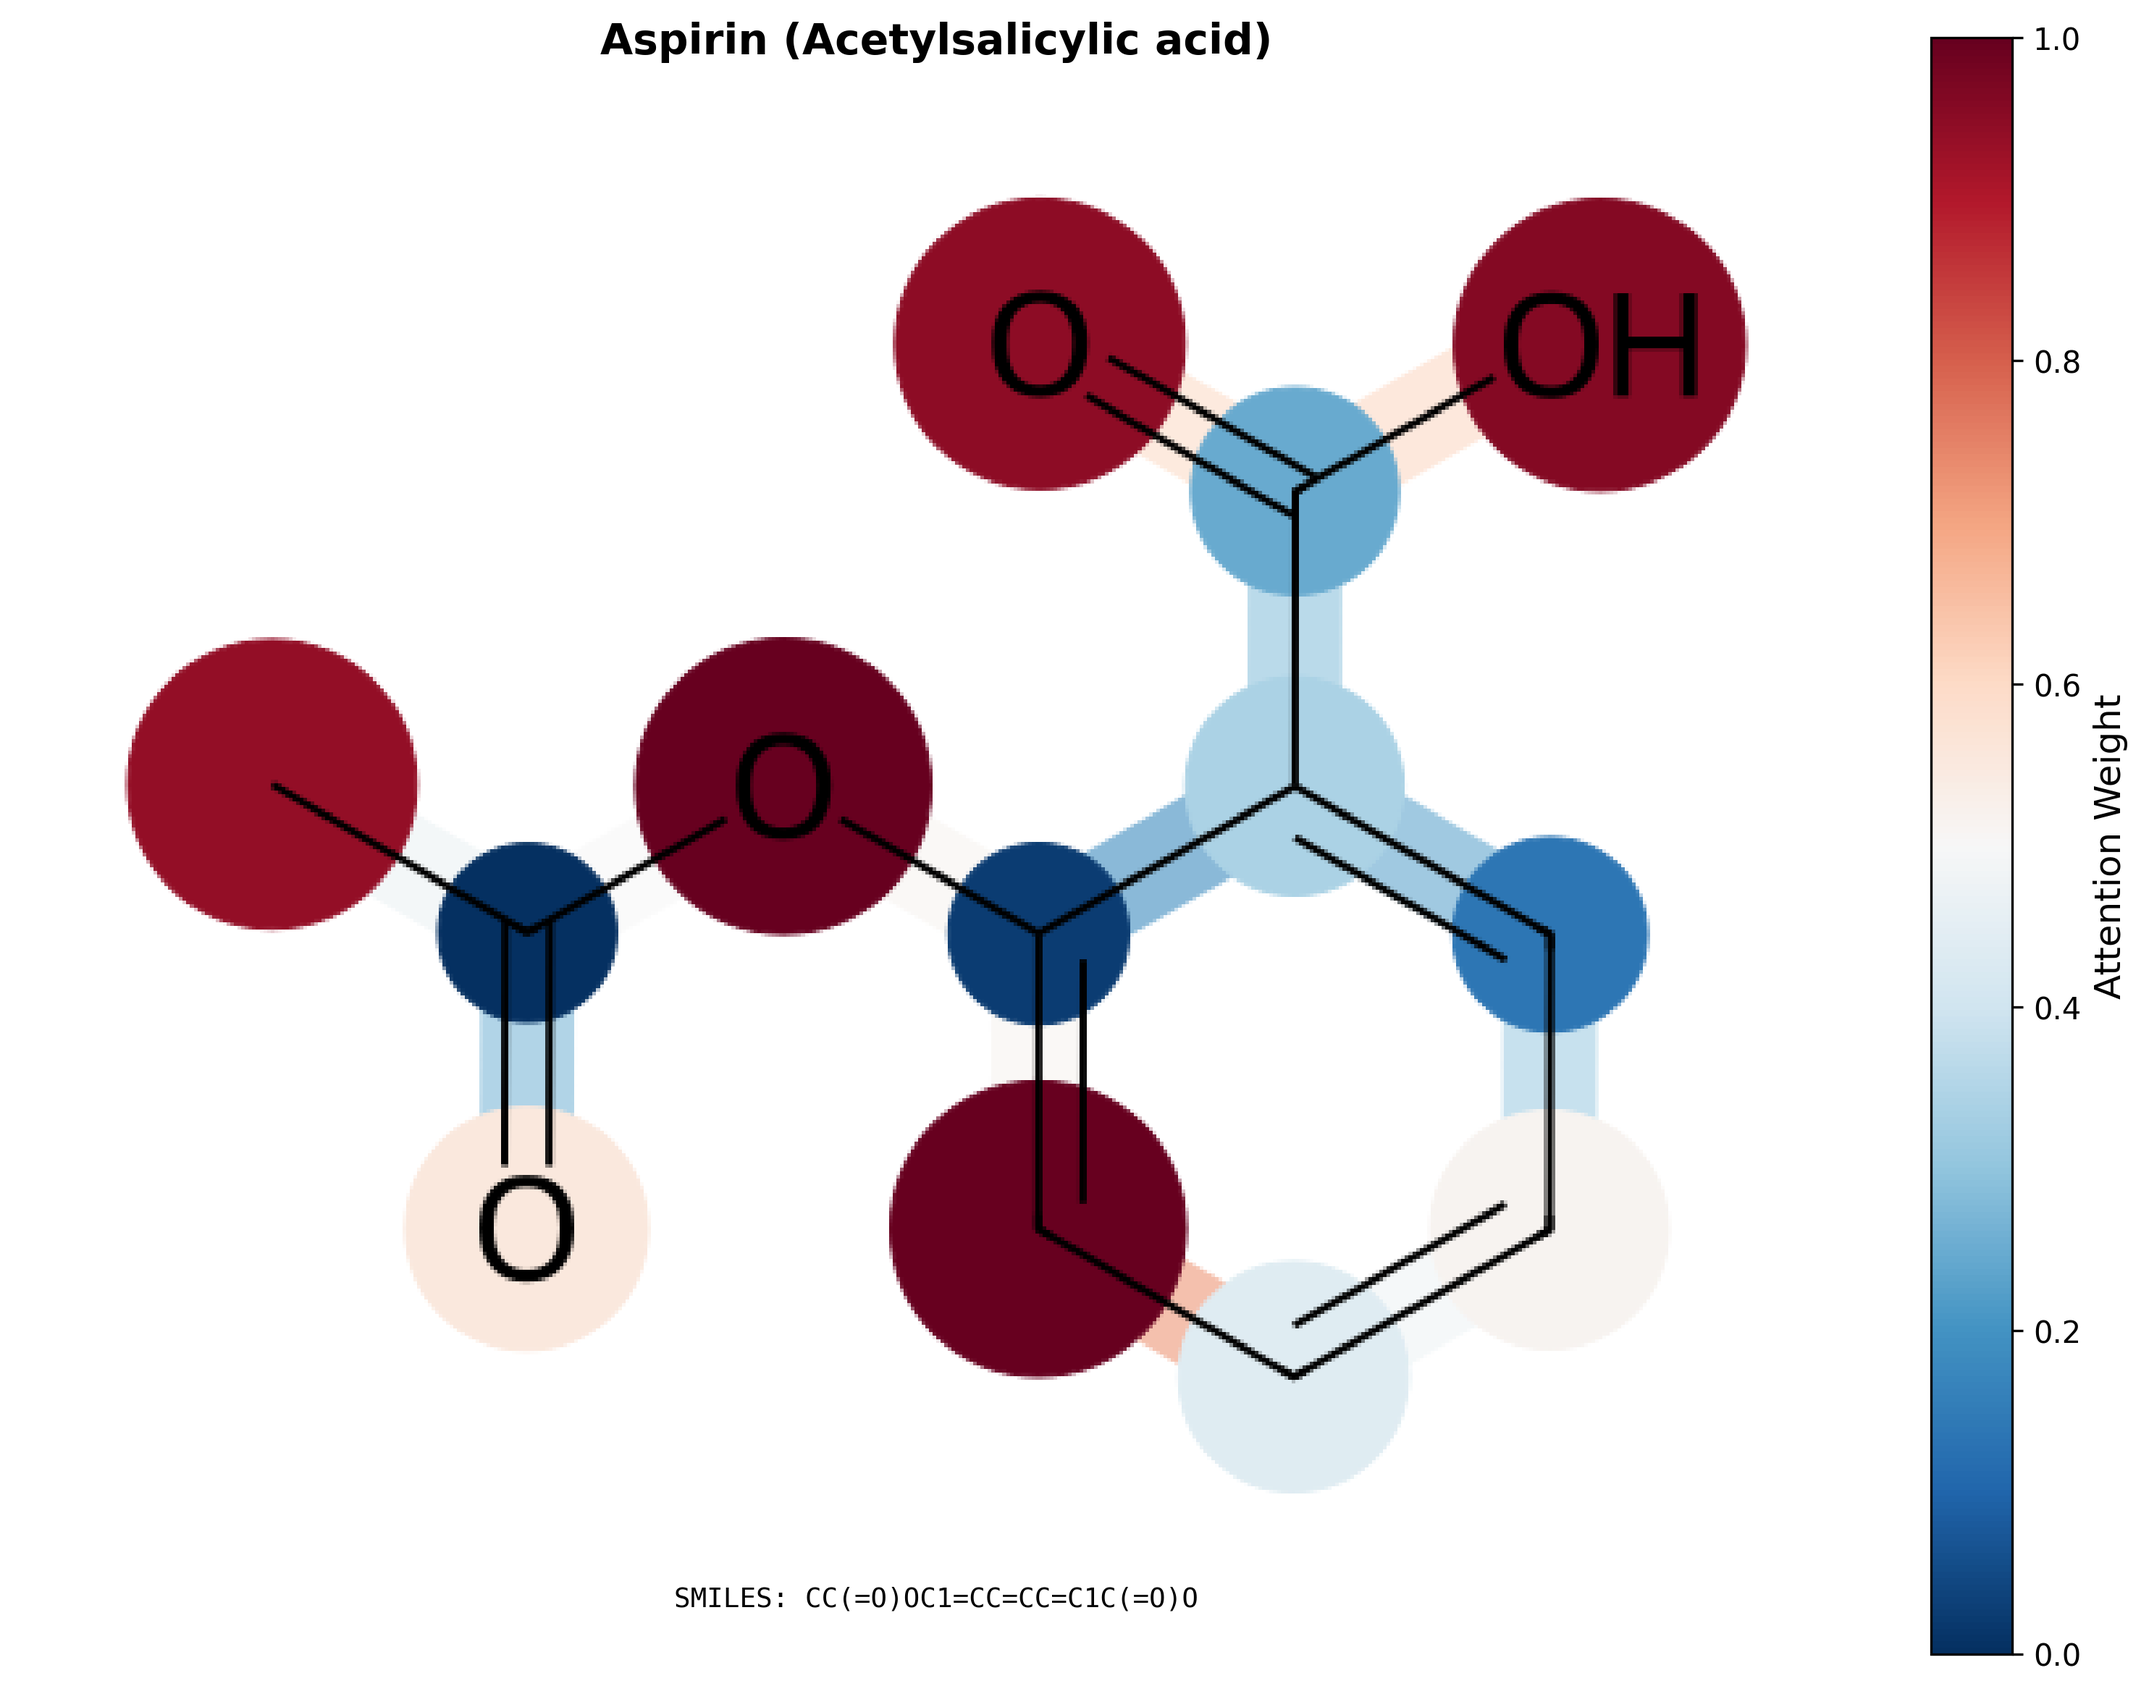
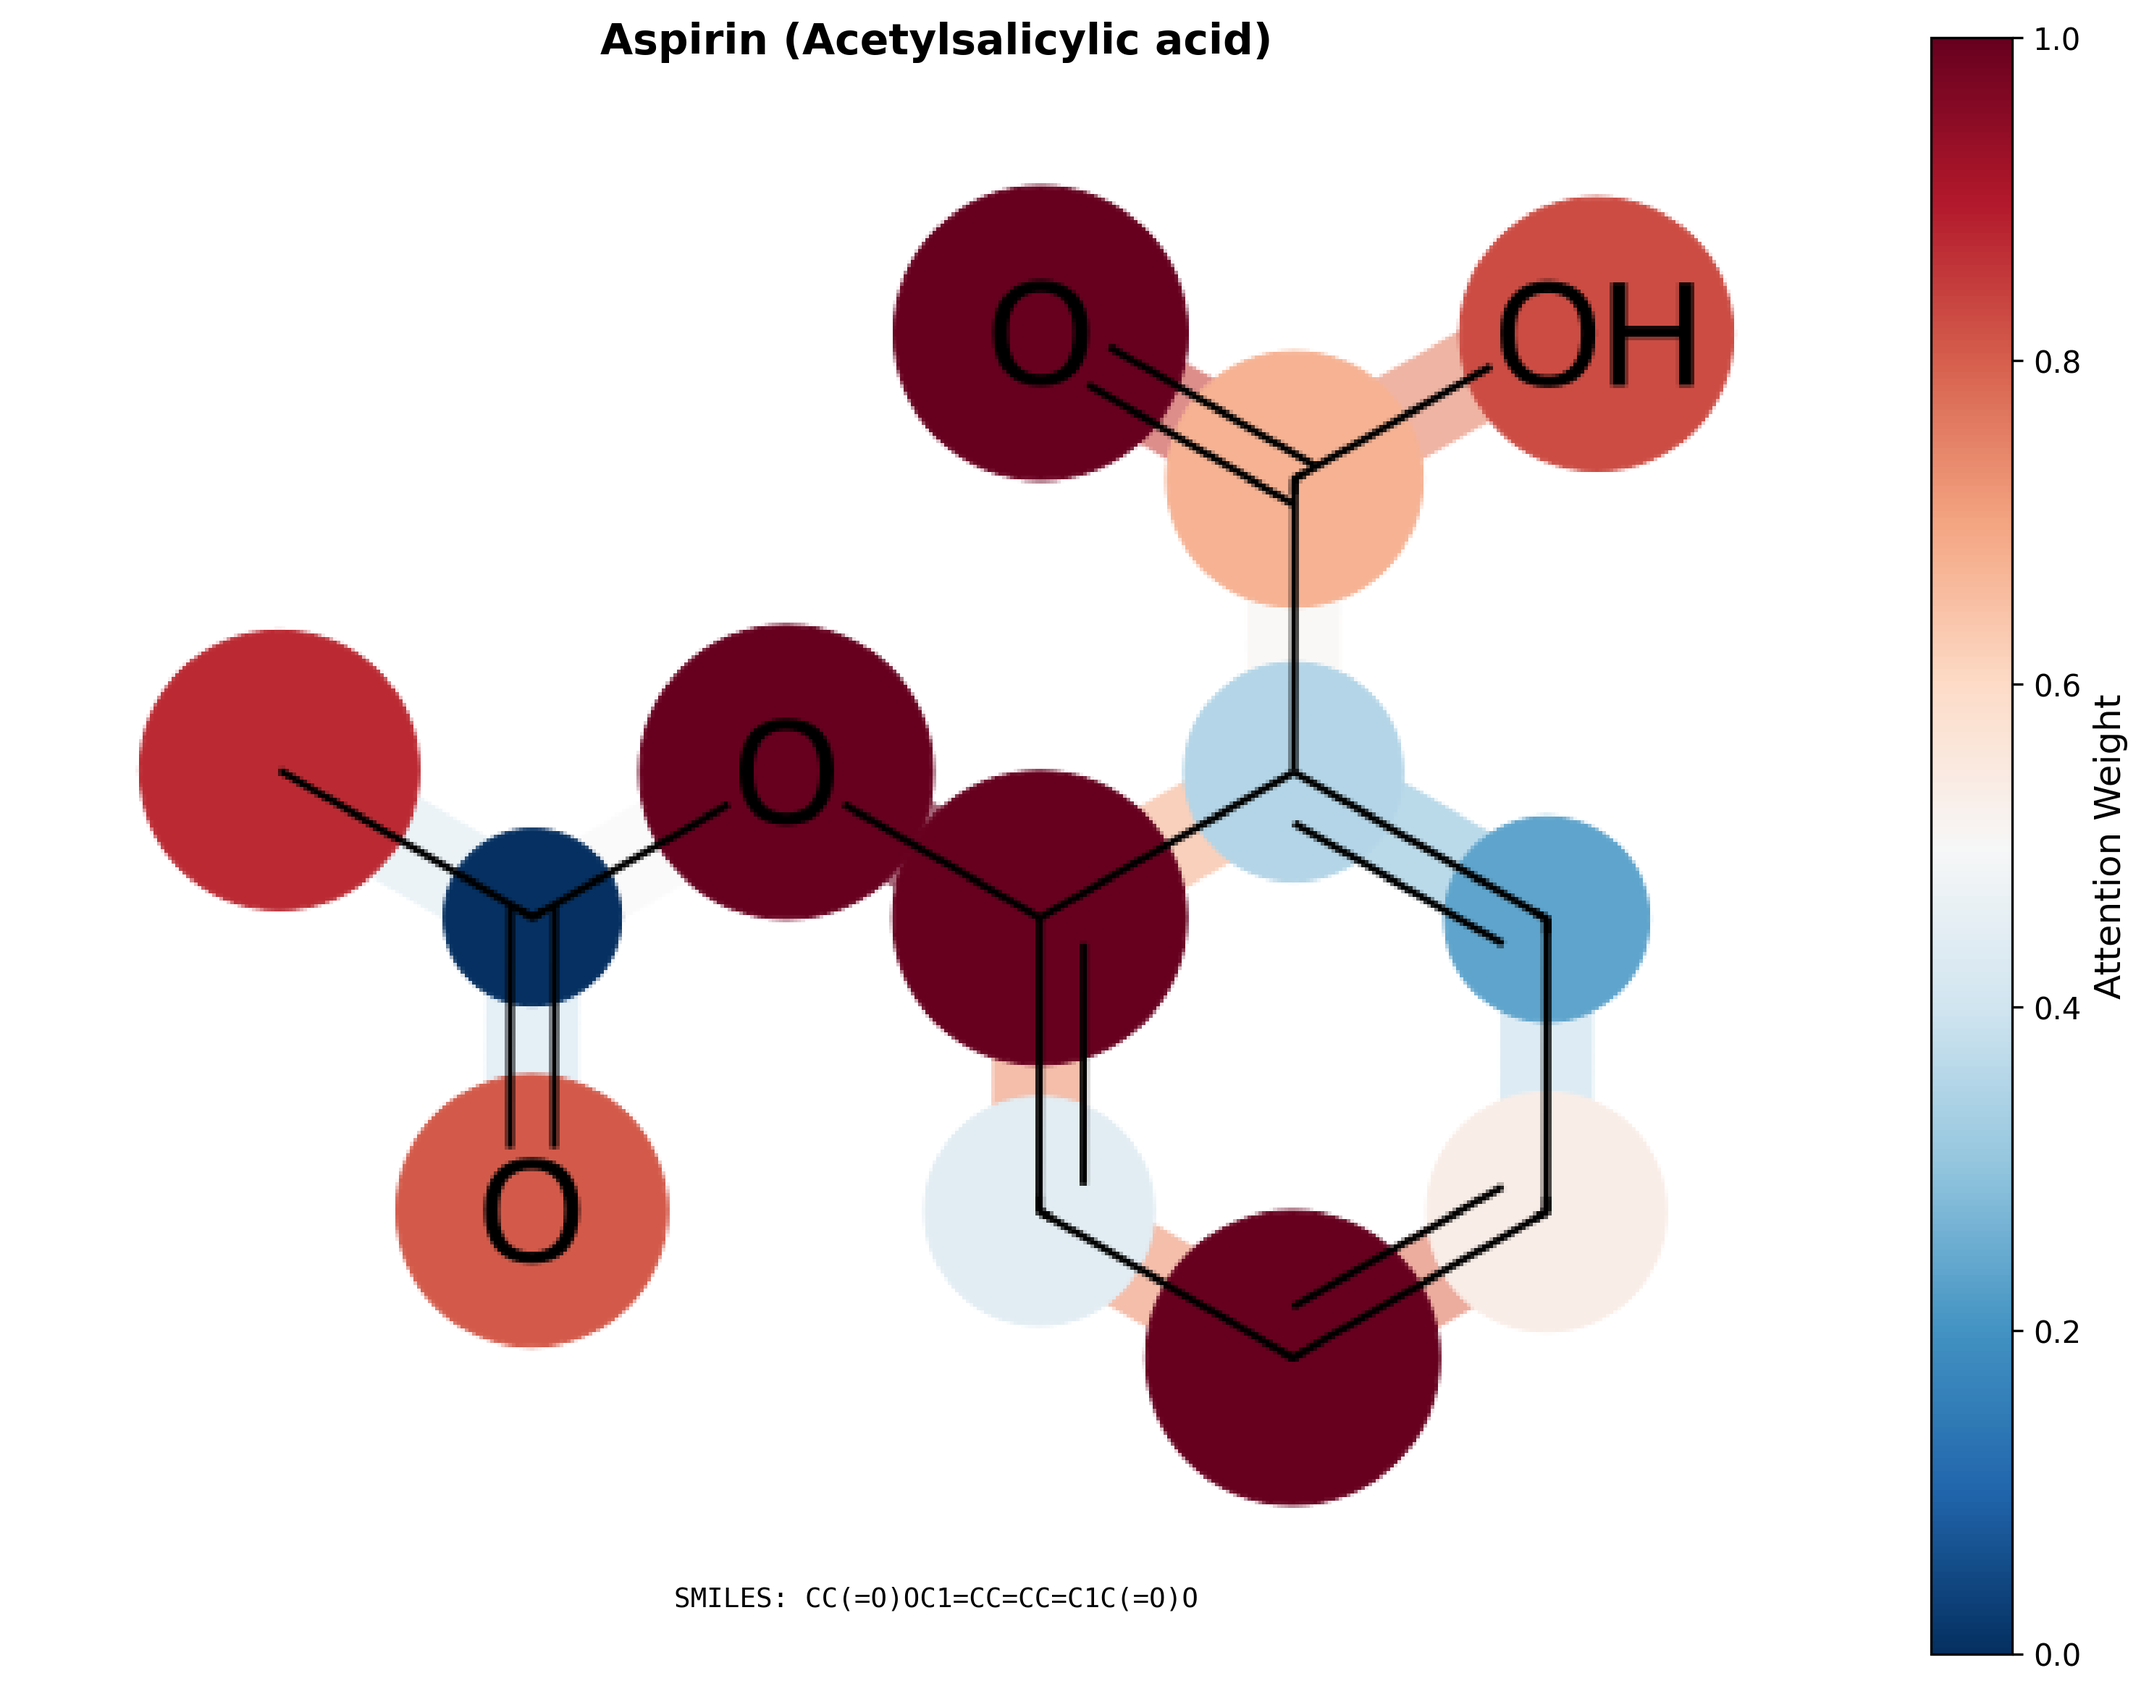
Address code review feedback: fix rdkit package name, hash issue, and temp file handling

Changed region(s): [[0.062, 0.0936, 0.8369, 0.9047]]

diff --git a/examples/visualize_attention_example.py b/examples/visualize_attention_example.py
@@ -32,23 +32,35 @@ import numpy as np
 project_root = os.path.dirname(os.path.dirname(os.path.abspath(__file__)))
 sys.path.insert(0, project_root)
 
-# 直接导入可视化模块（避免加载完整的 molgraph 包）
-import importlib.util
-viz_spec = importlib.util.spec_from_file_location(
-    'visualize_attention', 
-    os.path.join(project_root, 'molgraph', 'visualize_attention.py')
-)
-viz_module = importlib.util.module_from_spec(viz_spec)
-viz_spec.loader.exec_module(viz_module)
-
-# 从模块导入需要的函数
-visualize_molecule_attention = viz_module.visualize_molecule_attention
-visualize_multiple_molecules = viz_module.visualize_multiple_molecules
-save_attention_visualization = viz_module.save_attention_visualization
-quick_visualize = viz_module.quick_visualize
-generate_example_visualizations = viz_module.generate_example_visualizations
-normalize_attention_weights = viz_module.normalize_attention_weights
-create_atom_attention_mask = viz_module.create_atom_attention_mask
+# 尝试从 molgraph 包导入，如果失败则使用直接加载
+try:
+    from molgraph.visualize_attention import (
+        visualize_molecule_attention,
+        visualize_multiple_molecules,
+        save_attention_visualization,
+        quick_visualize,
+        generate_example_visualizations,
+        normalize_attention_weights,
+        create_atom_attention_mask
+    )
+except ImportError:
+    # 如果 molgraph 包有未安装的依赖，直接加载 visualize_attention 模块
+    import importlib.util
+    viz_spec = importlib.util.spec_from_file_location(
+        'visualize_attention', 
+        os.path.join(project_root, 'molgraph', 'visualize_attention.py')
+    )
+    viz_module = importlib.util.module_from_spec(viz_spec)
+    viz_spec.loader.exec_module(viz_module)
+    
+    # 从模块导入需要的函数
+    visualize_molecule_attention = viz_module.visualize_molecule_attention
+    visualize_multiple_molecules = viz_module.visualize_multiple_molecules
+    save_attention_visualization = viz_module.save_attention_visualization
+    quick_visualize = viz_module.quick_visualize
+    generate_example_visualizations = viz_module.generate_example_visualizations
+    normalize_attention_weights = viz_module.normalize_attention_weights
+    create_atom_attention_mask = viz_module.create_atom_attention_mask
 
 # RDKit
 from rdkit import Chem
@@ -138,7 +150,8 @@ def generate_simulated_attention(smiles: str, seed: int = None) -> np.ndarray:
     if seed is not None:
         np.random.seed(seed)
     else:
-        np.random.seed(hash(smiles) % 2**32)
+        # Use bitwise AND to ensure non-negative 32-bit value for reproducibility
+        np.random.seed(hash(smiles) & 0xFFFFFFFF)
     
     # 基础随机权重
     weights = np.random.uniform(0.1, 0.4, num_atoms)
@@ -307,8 +320,10 @@ def example_different_colormaps():
             figsize=(5, 4)
         )
         
-        # 保存临时图像并加载
-        temp_path = f"/tmp/temp_{cmap}.png"
+        # 保存临时图像并加载 (use tempfile for cross-platform compatibility)
+        import tempfile
+        with tempfile.NamedTemporaryFile(suffix='.png', delete=False) as tmp_file:
+            temp_path = tmp_file.name
         sub_fig.savefig(temp_path, dpi=100, bbox_inches='tight')
         plt.close(sub_fig)
         

diff --git a/molgraph/visualize_attention.py b/molgraph/visualize_attention.py
@@ -847,7 +847,8 @@ def generate_example_visualizations(
         num_atoms = mol.GetNumAtoms()
         
         # 生成模拟的注意力权重（使用有意义的分布）
-        np.random.seed(hash(smiles) % 2**32)
+        # Use bitwise AND to ensure non-negative 32-bit value for reproducibility
+        np.random.seed(hash(smiles) & 0xFFFFFFFF)
         base_weights = np.random.rand(num_atoms)
         
         # 让某些原子有更高的权重（模拟模型关注功能团）
